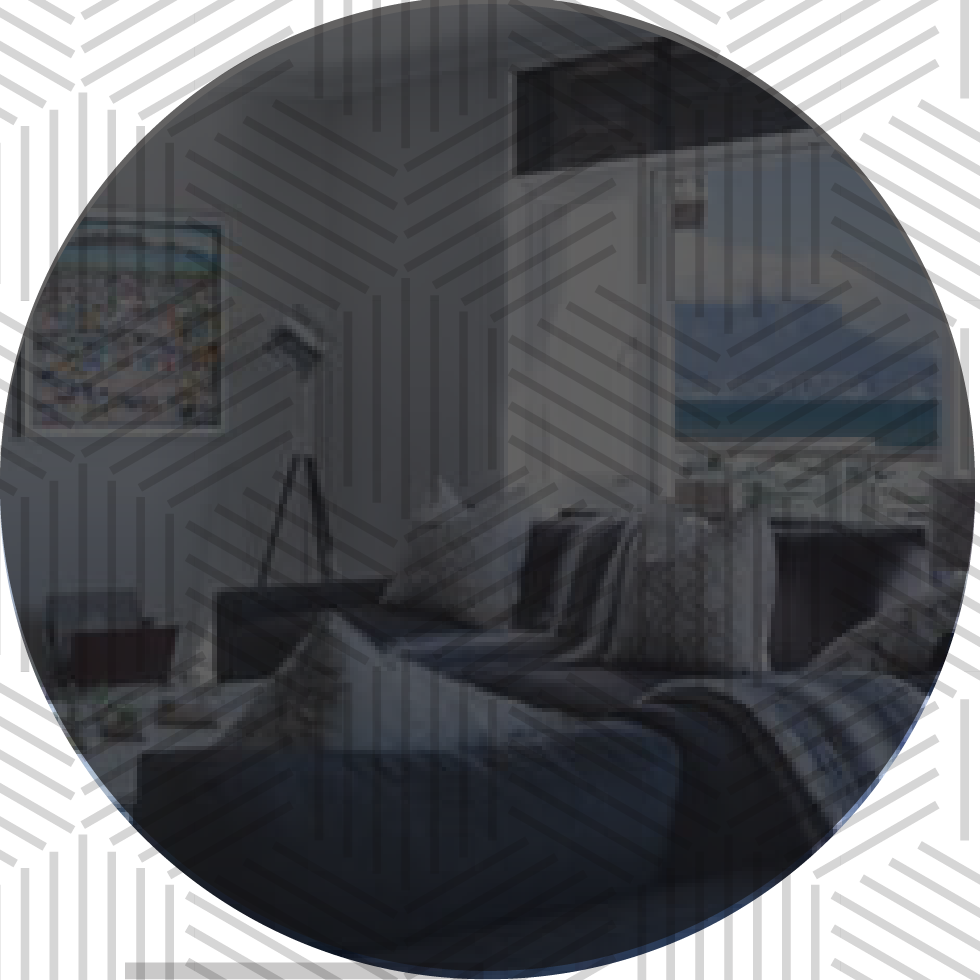
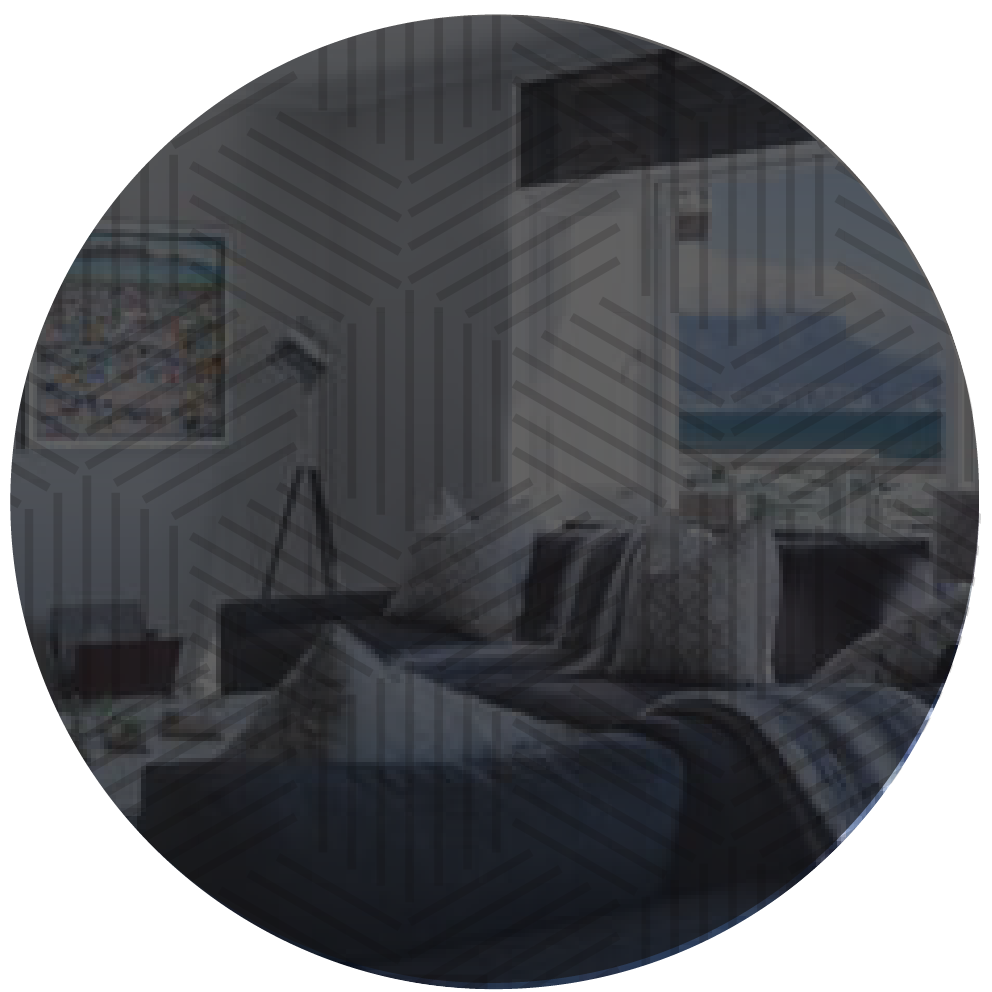
images

diff --git a/src/component/HomePage/HomeStageSectionFive/HomeStageSectionFive.js b/src/component/HomePage/HomeStageSectionFive/HomeStageSectionFive.js
@@ -1,6 +1,8 @@
 import React, { Component } from 'react'
-import HomeBackImage from '../../../images/Homefover.png'
-
+import layout1 from '../../../images/Home/layout1.png'
+import layout4 from '../../../images/Home/layout4.jpg'
+import layout3 from '../../../images/Home/layout3.jpg'
+import layout5 from '../../../images/Home/layout5.png'
 import HomeBackImage1 from '../../../images/hstage.png'
 import Tv from '../../../images/tv.png'
 import nature from '../../../images/nature6.png'
@@ -23,7 +25,7 @@ export default class Sectionone extends Component {
       <div class="content content_modi">
 <a href="/portfolio" target="_blank">
 <div class="content-overlay"></div>
-<img className="content-image" src={HomeBackImage}></img>
+<img className="content-image" src={layout1}></img>
 <div class="content-details content-details-modi fadeIn-top">
 <div class="group">
 
@@ -56,7 +58,7 @@ export default class Sectionone extends Component {
 <div class="content content_modi Content_modi_padding ">
 <a href="/portfolio" target="_blank">
 <div class="content-overlay"></div>
-<img className="content-image" src={HomeBackImage1}></img>
+<img className="content-image" src={layout3}></img>
 <div class="content-details fadeIn-top">
 <div class="group">
 
@@ -74,7 +76,7 @@ export default class Sectionone extends Component {
       <div class="content content_modi Content_modi_padding">
 <a href="/portfolio" target="_blank">
 <div class="content-overlay"></div>
-<img className="content-image content-image1" src={Tv}></img>
+<img className="content-image content-image1" src={layout4}></img>
 <div class="content-details content-details-modi1 fadeIn-top">
 <div class="group">
 
@@ -97,7 +99,7 @@ export default class Sectionone extends Component {
 <div class="group">
 
 <p className="pfont"></p>
-<h4>Bloomfield St.</h4>
+<h4>Windsor Brooklyn.</h4>
 
 <span className="spans pfont">View details</span>
 
@@ -110,12 +112,12 @@ export default class Sectionone extends Component {
       <div class="content content_modi Content_modi_padding">
 <a href="/portfolio" target="_blank">
 <div class="content-overlay"></div>
-<img className="content-image" src={HomeBackImage1}></img>
+<img className="content-image" src={layout5}></img>
 <div class="content-details fadeIn-top">
 <div class="group">
 
 <p className="pfont"></p>
-<h4>Bloomfield St.</h4>
+<h4>Banwell House.</h4>
 
 <span className="spans pfont">View details</span>
 

diff --git a/src/component/Portfolio/IndividualPortfolioFifth/sectionfirst/Sectionfirst.js b/src/component/Portfolio/IndividualPortfolioFifth/sectionfirst/Sectionfirst.js
@@ -13,11 +13,13 @@ export default class Sectionfirst extends Component {
       <div className="container ">
       <div className="row ">
       <div className="col-md-6">
-        <h2 className="mt-5"></h2>
-        <span className="txt-property">Transformed it into a beautiful home with enormous natural lights.</span>
+        <h2 className="mt-5 txt-head">WINDSOR BROOKLYN</h2>
+        <span className="txt-property">Neutralizing the colors can lead in numerous offers on this estate.</span>
         </div>
   <div className="col-md-6 pr-5" style={{fontSize:"1.2em"}}>
-        <p className="m-5">After inspecting and analyzing the residence up for sale, the most obvious issues were taken care of before home staging. Our opulent furnishings make the home a welcoming and alluring place that makes a customer feel happy and vibrant. It involved a lot of change in colour and other architectural changes.</p>
+        <p className="m-5">This beautiful home with a central location, we added a chefs gourmet kitchen. Added a beauty to a custom natural gas fire pit and matching outdoor kitchen equipped with granite counter top. 
+        In the dining area, the rustic wall at the corner was left rough & unpolished, adding the perfect amount of character to space. The flooring was changed to a dramatic brown coordinating with table and high stools. 
+        Buyers could more readily imagine themselves in space by neutralizing the colors, leading in numerous offers on this estate. A neutral rug, curtains removal, and a few accessories made this home look smooth and outstanding.</p>
         <h6 className="share">SHARE</h6>
         <div className="share">
         <i class="fab fa-facebook p-1"></i>

diff --git a/src/component/Portfolio/IndividualPortfolioSix/sectionfirst/Sectionfirst.js b/src/component/Portfolio/IndividualPortfolioSix/sectionfirst/Sectionfirst.js
@@ -13,11 +13,13 @@ export default class Sectionfirst extends Component {
       <div className="container ">
       <div className="row ">
       <div className="col-md-6">
-        <h2 className="mt-5"></h2>
-        <span className="txt-property">Transformed it into a beautiful home with enormous natural lights.</span>
+        <h2 className="mt-5 txt-head">BANWELL HOUSE</h2>
+        <span className="txt-property">Make the best use of what is already available.</span>
         </div>
   <div className="col-md-6 pr-5" style={{fontSize:"1.2em"}}>
-        <p className="m-5">After inspecting and analyzing the residence up for sale, the most obvious issues were taken care of before home staging. Our opulent furnishings make the home a welcoming and alluring place that makes a customer feel happy and vibrant. It involved a lot of change in colour and other architectural changes.</p>
+        <p className="m-5">We have done some de-cluttering in Banwell House to remove all private items so that customers can imagine themselves in the home. Staging with furniture that blends with home allows customers to focus on what they like about their home.
+        The color of the wall enhanced natural light beauty, making the building very tempting and attractive. Considering that we added a center painting, and a hanging chandelier made the room more pleasing giving it a fresh look. Adequately scaled nightlamps made it look great to match the chandelier. 
+        According to statistics, if the home is staged, there are 49 percent increases in the dollar value offered.</p>
         <h6 className="share">SHARE</h6>
         <div className="share">
         <i class="fab fa-facebook p-1"></i>

diff --git a/src/component/Portfolio/ImageSection/ImageSection.js b/src/component/Portfolio/ImageSection/ImageSection.js
@@ -38,31 +38,18 @@ image:'https://images.unsplash.com/photo-1433360405326-e50f909805b3?ixlib=rb-0.3
 {
 id:5,
 para:'Individuals',
-header:'Bloomfield St.',
+header:'Windsor Brooklyn*.',
 viewmore:'/IndividualPortfolioFive',
 image:'https://images.unsplash.com/photo-1433360405326-e50f909805b3?ixlib=rb-0.3.5&q=80&fm=jpg&crop=entropy&w=1080&fit=max&s=359e8e12304ffa04a38627a157fc3362'
 },
 {
 id:6,
 para:'Vacant',
-header:'Bloomfield St.',
+header:'Banwell House.',
 viewmore:'/IndividualPortfolioSix',
 image:'https://images.unsplash.com/photo-1433360405326-e50f909805b3?ixlib=rb-0.3.5&q=80&fm=jpg&crop=entropy&w=1080&fit=max&s=359e8e12304ffa04a38627a157fc3362'
 },
-{
-id:7,
-para:'Brokers',
-header:'Bloomfield St.',
-viewmore:'/IndividualPortfolioSeven',
-image:'https://images.unsplash.com/photo-1433360405326-e50f909805b3?ixlib=rb-0.3.5&q=80&fm=jpg&crop=entropy&w=1080&fit=max&s=359e8e12304ffa04a38627a157fc3362'
-},
-{
-id:8,
-para:'Real Estate',
-header:'Bloomfield St.',
-viewmore:'/IndividualPortfolioEight',
-image:'https://images.unsplash.com/photo-1433360405326-e50f909805b3?ixlib=rb-0.3.5&q=80&fm=jpg&crop=entropy&w=1080&fit=max&s=359e8e12304ffa04a38627a157fc3362'
-},
+
 ],
 final:[]
 }

diff --git a/src/component/HomePage/HomeStageSectionOne/HomeStageSectionOne.css b/src/component/HomePage/HomeStageSectionOne/HomeStageSectionOne.css
@@ -12,7 +12,7 @@
 {
 background-color: rgba(0, 0, 0, 0);
     background-repeat: no-repeat;
-    background-image: url(http://hnd-demo.detheme.com/textrotator/wp-content/uploads/sites/18/revslider/text-rotator/shutterstock_103139489.jpg);
+    background-image: url("../../../images/Home/banner.jpg");
     background-size: cover;
     background-position: center top;
     width: 100%;
